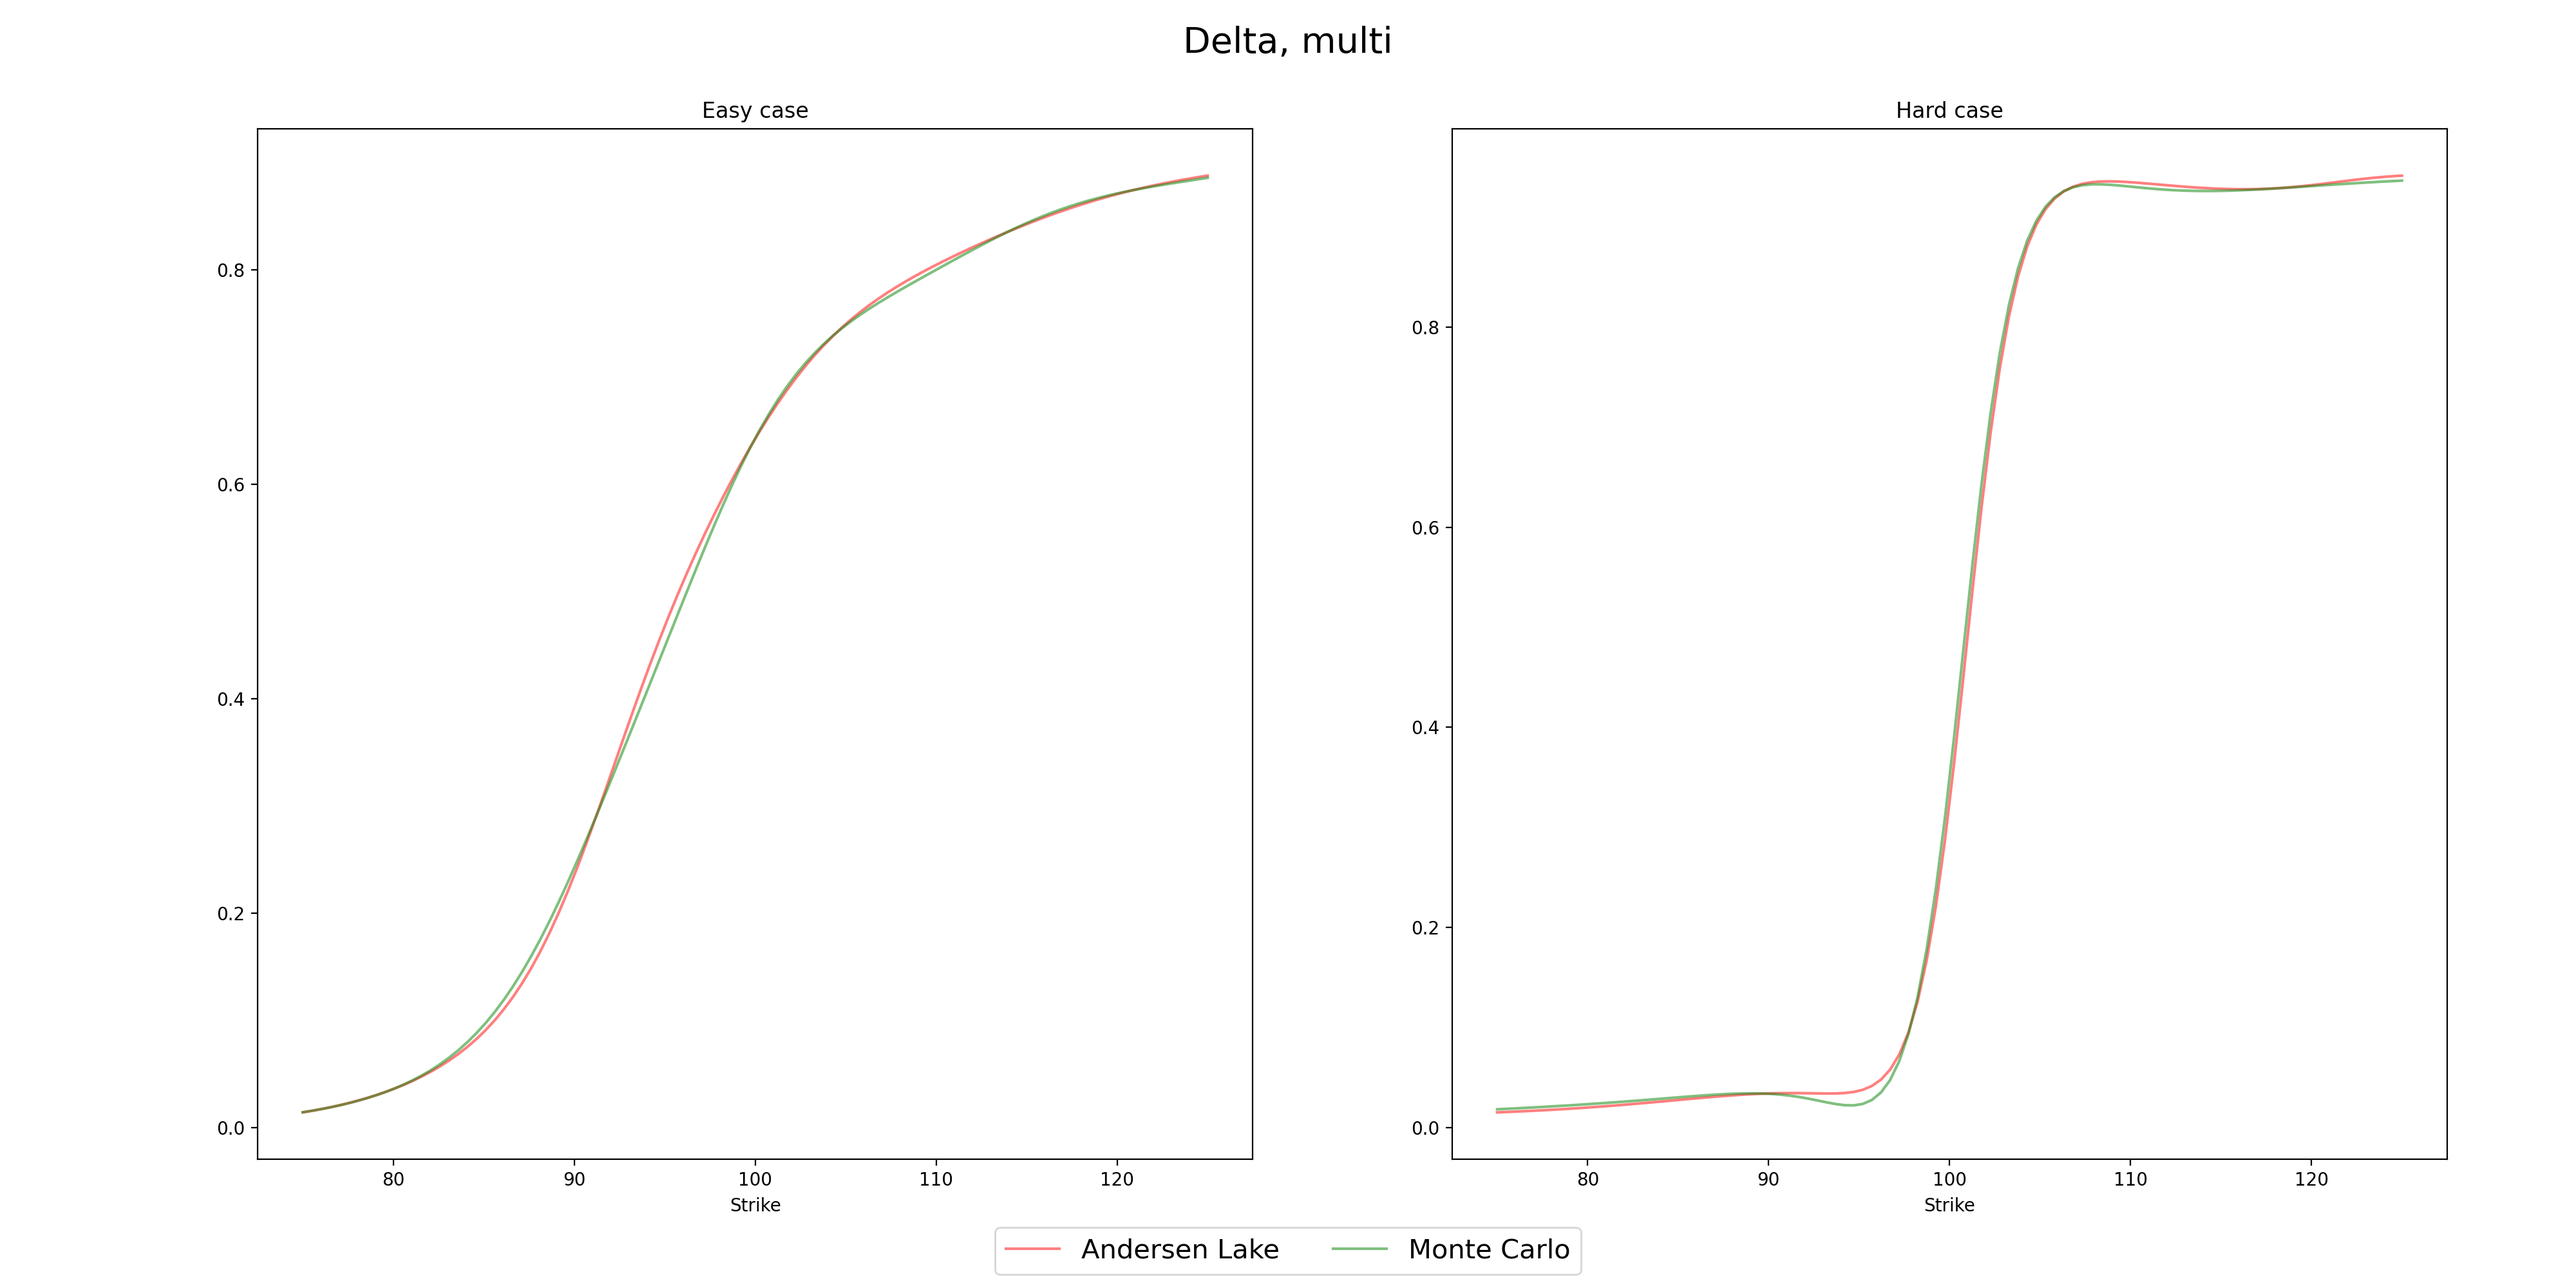
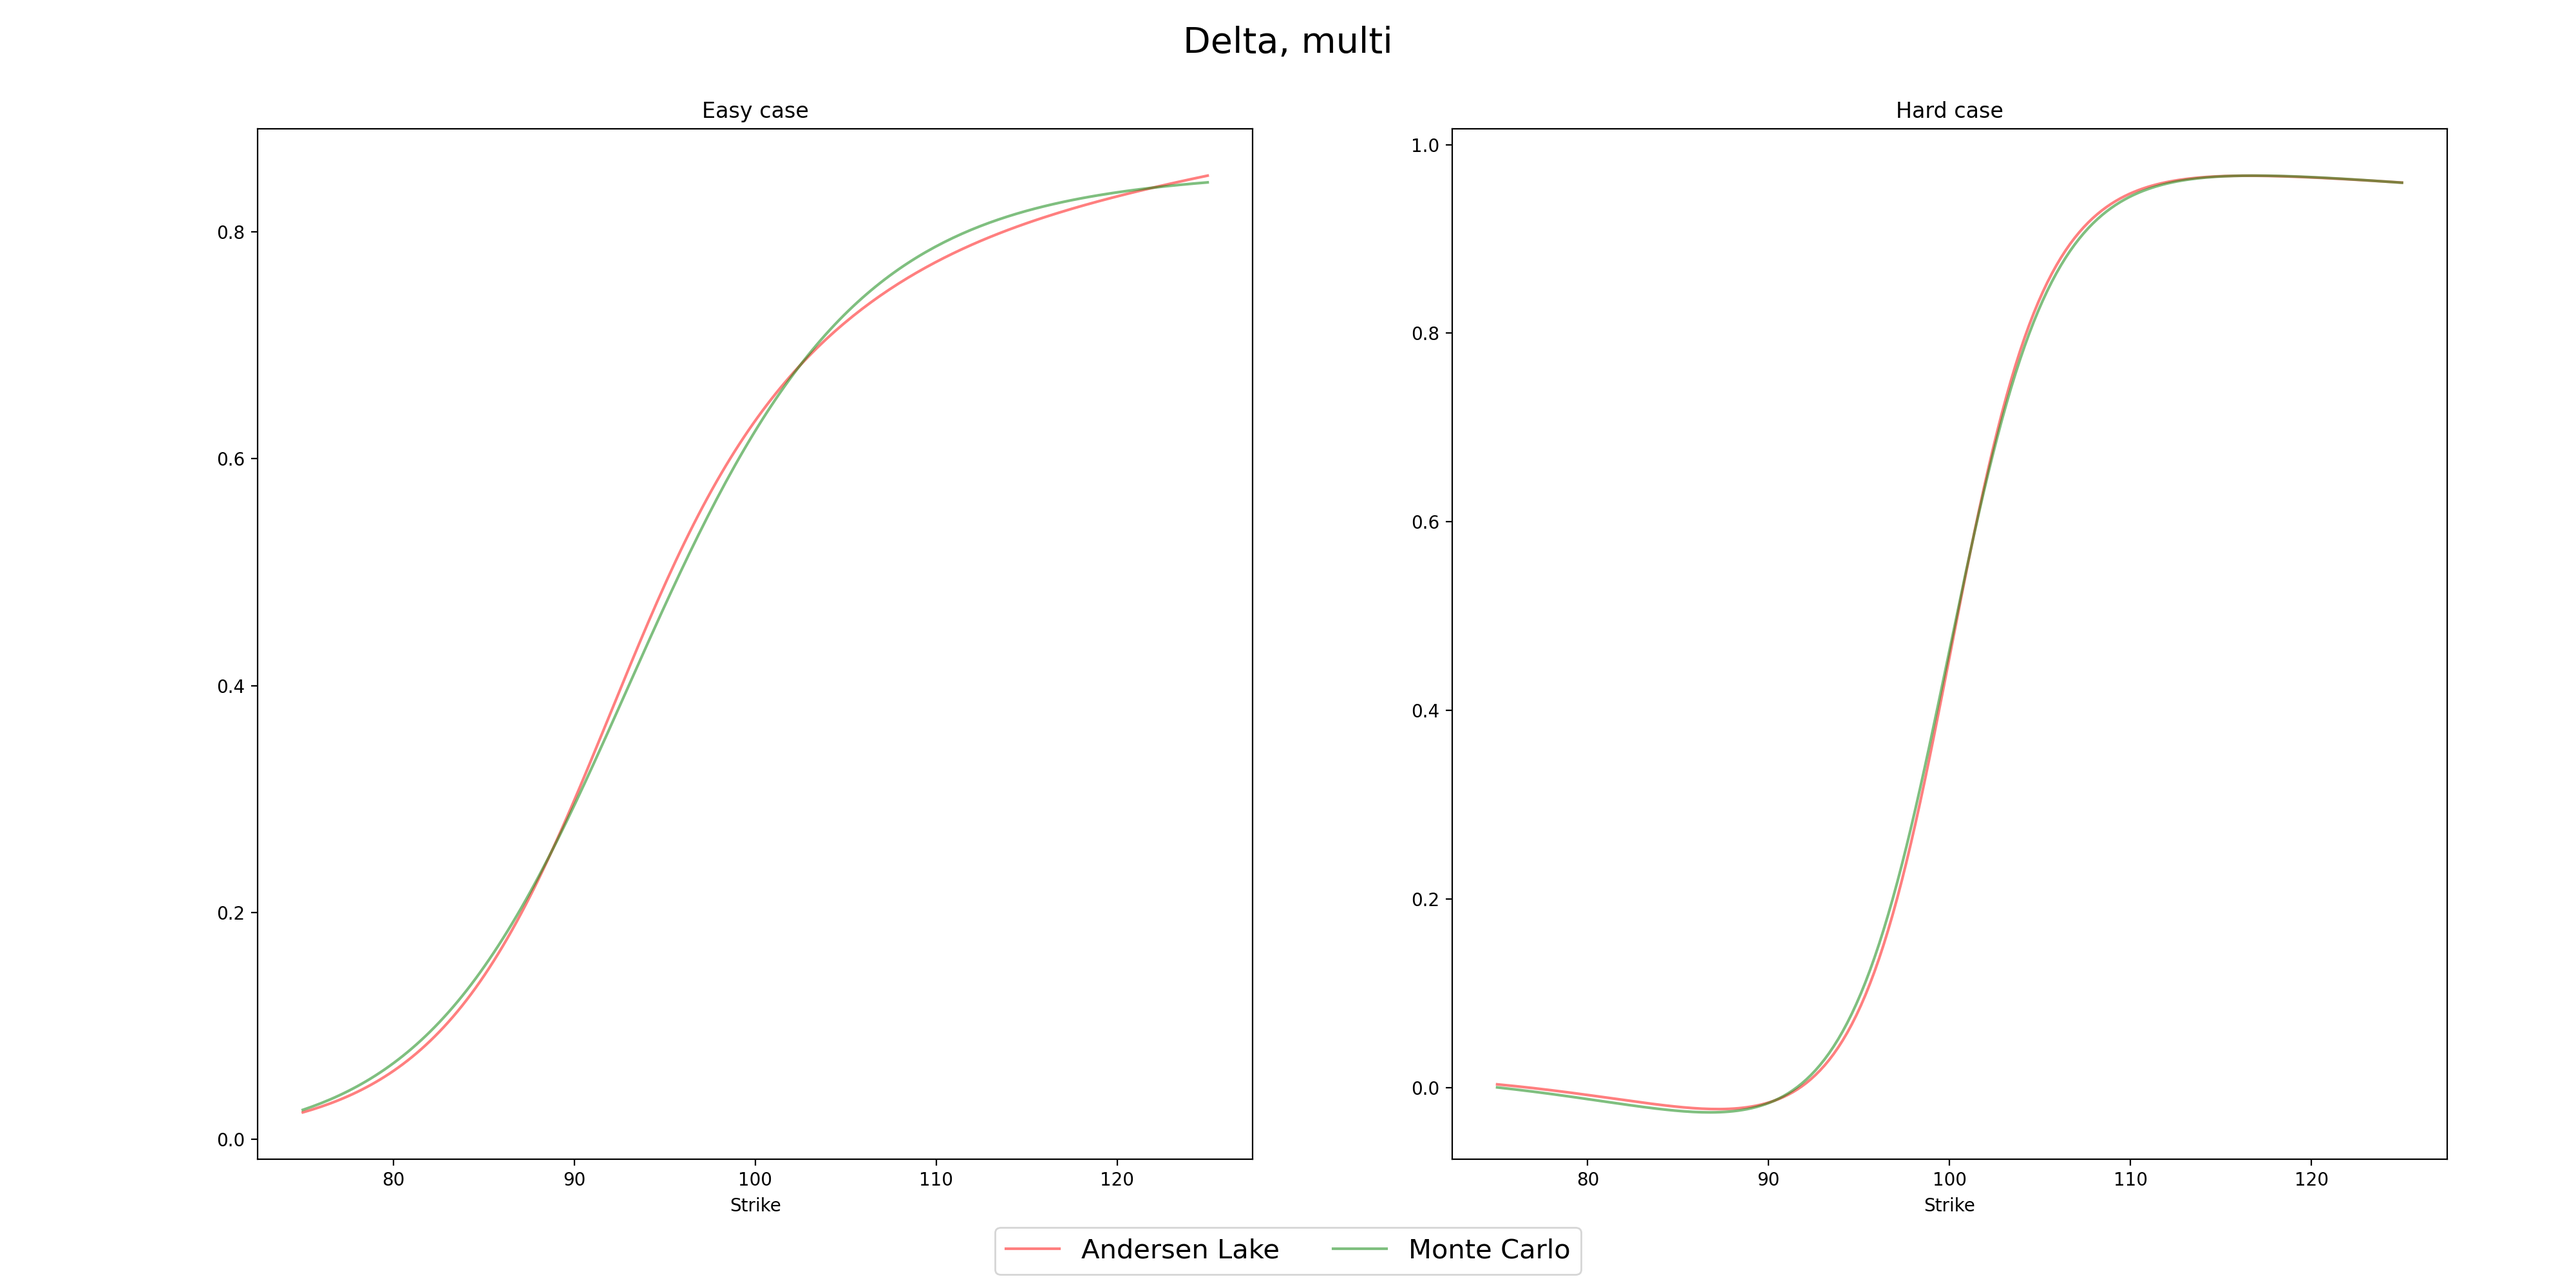
Lets go

diff --git a/Thesis/Heston/Refit.py b/Thesis/Heston/Refit.py
@@ -1,0 +1,132 @@
+import numpy as np
+import tensorflow as tf 
+from keras.optimizers import Adam
+from keras.callbacks import LearningRateScheduler, EarlyStopping, ModelCheckpoint
+from sklearn.preprocessing import MinMaxScaler, StandardScaler
+from multiprocess import Pool, cpu_count, Process
+from sklearn.model_selection import train_test_split
+from keras.models import load_model
+from itertools import repeat
+from functools import partial
+import os
+import joblib
+import sys
+import glob
+sys.path.append(os.getcwd()) # added for calc server support
+
+import time
+
+def lr_schedule(epoch, rate):
+    lower_lr = 1e-4
+    upper_lr = lower_lr * 100
+    no_epochs = 100
+    peak_epoch = 45
+    if epoch <= peak_epoch:
+        lr = lower_lr + epoch / peak_epoch * (upper_lr - lower_lr)
+    elif peak_epoch < epoch < peak_epoch * 2:
+        lr = upper_lr - (epoch - peak_epoch) / peak_epoch * (upper_lr - lower_lr)
+    else:
+        lr = lower_lr * (1 - (epoch - 2 * peak_epoch) / (no_epochs - 2 * peak_epoch)) * (1 - 1 / 10)
+
+    return lr
+
+def refit_model(model_string : str, data : list):
+    model = load_model(model_string)
+    ending = model_string[-4:-3]
+
+    X_train = data[0]
+    X_test = data[1]
+    Y_train = data[2]
+    Y_test = data[3]
+
+    norm_feature = joblib.load(model_string[:-5]+"_norm_features_"+ending+".pkl")
+    X_train = norm_feature.fit_transform(X_train)
+    X_test = norm_feature.transform(X_test)
+    try:
+        norm_labels = joblib.load(model_string[:-5]+"_norm_labels_"+ending+".pkl")
+        Y_train = norm_labels.fit_transform(Y_train)
+        Y_test = norm_labels.transform(Y_test)
+    except:
+        pass
+    
+    model_path = model_string[:model_string.rfind("/")]
+    model_path = model_path.replace("Models2", "Models3")
+    model_name = model_string[model_string.rfind("/") + 1:]
+
+    if not os.path.exists(model_path):
+        os.makedirs(model_path)
+
+    model_save = model_string.replace("Models2", "Models3")
+
+    variance_scaler = tf.keras.initializers.VarianceScaling()
+
+    ### Re initialize weights
+    weights = [variance_scaler(shape = [*w.shape]) for w in model.get_weights()]
+
+    model.set_weights(weights)
+
+    adam = Adam()
+
+    model.compile(
+        loss = 'mean_squared_error', #mean squared error
+        optimizer = adam
+        )
+
+    callbacks_list = [
+        LearningRateScheduler(lr_schedule, verbose = 0),
+        ModelCheckpoint(model_save, monitor="val_loss", save_best_only=True)
+    ]
+
+    start_time = time.time()
+    model.fit(X_train, Y_train, epochs=100, batch_size=1024, verbose = 0, callbacks = callbacks_list, validation_split = 0.1, shuffle=True)
+    stop_time = time.time()
+
+    score = model.evaluate(X_test, Y_test, verbose=2)
+
+    if not os.path.exists(model_path+"/HestonModels.txt"):
+        with open(model_path+"/HestonModels.txt", "w") as output_file:
+            pass
+
+    # Appending test score to file
+    with open(model_path+"/HestonModels.txt", "a") as output_file:
+        output_file.write("\n")
+        output_file.write(model_name+" has a score of: "+str(score)+", and took a total time of: "+str(stop_time - start_time))
+
+    return 0
+
+"""
+input_pre = np.loadtxt("Data/hestonSobolGridInput2_compare2_200000.csv", delimiter = ",")
+output_pre = np.loadtxt("Data/hestonSobolGridImpVol2_compare2_200000.csv", delimiter = ",")
+
+sobol_filter = np.all(output_pre != 0, axis = 1)
+sobol_input = input_pre[sobol_filter, :]
+sobol_output = output_pre[sobol_filter, :]
+
+X_train, X_test, Y_train, Y_test = train_test_split(sobol_input, sobol_output, test_size=0.3, random_state=42)
+
+np.savetxt("Data/Sobol2_X_train.csv", X_train, delimiter = ",")
+np.savetxt("Data/Sobol2_X_test.csv", X_test, delimiter = ",")
+np.savetxt("Data/Sobol2_Y_train.csv", Y_train, delimiter = ",")
+np.savetxt("Data/Sobol2_Y_test.csv", Y_test, delimiter = ",")
+"""
+
+X_train = np.loadtxt("Data/Sobol2_X_train.csv", delimiter = ",")
+X_test = np.loadtxt("Data/Sobol2_X_test.csv", delimiter = ",")
+Y_train = np.loadtxt("Data/Sobol2_Y_train.csv", delimiter = ",")
+Y_test = np.loadtxt("Data/Sobol2_Y_test.csv", delimiter = ",")
+
+data_set = [X_train, X_test, Y_train, Y_test]
+
+price_imp_models = glob.glob("Models2/price_vs_imp/*.h5")
+standard_normal_models = glob.glob("Models2/stardard_vs_normal/*.h5")
+standard_normal_tanh_models = glob.glob("Models2/stardard_vs_normal_tanh/*.h5")
+standard_normal_mix_models = glob.glob("Models2/stardard_vs_normal_mix/*.h5")
+
+model_list = price_imp_models + standard_normal_models + standard_normal_tanh_models + standard_normal_mix_models
+
+cpu_cores = min(cpu_count(), len(model_list))
+# parallel
+pool = Pool(cpu_cores)
+res_models = pool.starmap(refit_model, zip(model_list, repeat(data_set)))
+pool.close()
+print(res_models)

diff --git a/Thesis/Heston/DataGeneration.py b/Thesis/Heston/DataGeneration.py
@@ -6,7 +6,7 @@ import os
 sys.path.append(os.getcwd()) # added for calc server support
 from multiprocess import Pool, cpu_count
 
-from Thesis.Heston import AndersenLake as al, HestonModel as hm
+from Thesis.Heston import AndersenLake as al, HestonModel as hm, Sobol
 from Thesis.misc import VanillaOptions as vo
 
 def calc_imp_vol(input_array : np.array, option_list : np.array) -> (np.array, np.array):
@@ -117,27 +117,8 @@ if __name__ == "__main__":
     imp_vol_output = res[1]
 
     # saving grid datasets
-    np.savetxt("Data/hestonGridInput_wide.csv", model_input, delimiter=",")
-    np.savetxt("Data/hestonGridPrice_wide.csv", price_output, delimiter=",")
-    np.savetxt("Data/hestonGridImpVol_wide.csv", imp_vol_output, delimiter=",")
+    np.savetxt("Data/hestonGridInput2_wide.csv", model_input, delimiter=",")
+    np.savetxt("Data/hestonGridPrice2_wide.csv", price_output, delimiter=",")
+    np.savetxt("Data/hestonGridImpVol2_wide.csv", imp_vol_output, delimiter=",")
 
-    """
-    # Generating single outputs
-    total_comb = np.shape(model_input)[0] * np.shape(option_input)[0]
-    total_cols = np.shape(model_input)[1] + np.shape(option_input)[1]
-    total_options = np.shape(option_input)[0]
-    singleInput = np.empty((total_comb, total_cols))
-    singlePrice_output = np.empty((total_comb, 1))
-    singleImpVol_output = np.empty((total_comb, 1))
-    for i in range(np.shape(model_input)[0]):
-        for j in range(total_options):
-            singleInput[i*total_options+j, 0:np.shape(model_input)[1]] = model_input[i]
-            singleInput[i*total_options+j, (np.shape(model_input)[1]) : total_cols] = option_input[j]
-            singlePrice_output[i*total_options+j] = price_output[i, j]
-            singleImpVol_output[i*total_options+j] = impVol_output[i, j]
-
-    # saving dataset2
-    np.savetxt("Data/hestonSingleInput.csv", singleInput, delimiter=",")
-    np.savetxt("Data/hestonSinglePrice.csv", singlePrice_output, delimiter=",")
-    np.savetxt("Data/hestonSingleImpVol.csv", impVol_output, delimiter=",")
-    """
+    Sobol.generate_sobol_input(len(model_input))

diff --git a/Thesis/Heston/MC_al.py b/Thesis/Heston/MC_al.py
@@ -74,7 +74,7 @@ def generate_multi_network(X, Y):
     callbacks_list = [
         LearningRateScheduler(lr_schedule, verbose = 0),
     ]
-    model = nng.NN_generator(4, 20, np.shape(X)[1], np.shape(Y)[1])
+    model = nng.NN_generator(2, 25, np.shape(X)[1], np.shape(Y)[1])
 
     model.compile(
         loss = 'mean_squared_error', #mean squared error
@@ -95,9 +95,11 @@ def generate_predictions(test_x, model, norm):
         with tf.GradientTape() as tape2:
             tape2.watch(inp_tensor)
             predict = model(inp_tensor)
-        grads = tape2.gradient(predict, inp_tensor) / (norm.data_max_ - norm.data_min_)
+        grads = tape2.gradient(predict, inp_tensor)
 
     grads2 = tape.gradient(grads, inp_tensor) / ((norm.data_max_ - norm.data_min_) ** 2)
+
+    grads = grads / (norm.data_max_ - norm.data_min_)
 
     return predict, grads, grads2
 
@@ -213,9 +215,9 @@ al_multi_model2 = generate_multi_network(X_multi, al_output_multiple_2)
 mc_multi_model2 = generate_multi_network(X_multi, mc_output_multiple_2)
 
 ### Model testing
-spot_plot = np.linspace(start = 75, stop = 125, num = 100)
+spot_plot = np.linspace(start = 75, stop = 125, num = 200)
 spot_plot = np.reshape(spot_plot, (-1, 1))
-eps1_plot = np.reshape(np.repeat(1, len(spot_plot)), (-1, 1))
+eps1_plot = np.reshape(np.repeat(epsilon1, len(spot_plot)), (-1, 1))
 eps2_plot = np.reshape(np.repeat(epsilon2, len(spot_plot)), (-1, 1))
 input_multi_easy = np.concatenate([spot_plot, eps1_plot], axis = 1)
 input_multi_hard = np.concatenate([spot_plot, eps2_plot], axis = 1)

diff --git a/Thesis/Heston/Sobol.py b/Thesis/Heston/Sobol.py
@@ -59,15 +59,15 @@ def generate_sobol_input(no_sobol : int):
     imp_vol_output = res[1]
 
     # saving grid datasets
-    np.savetxt("Data/hestonSobolGridInput2_compare2_"+str(no_sobol)+".csv", gridInput, delimiter=",")
-    np.savetxt("Data/hestonSobolGridPrice2_compare2_"+str(no_sobol)+".csv", price_output, delimiter=",")
-    np.savetxt("Data/hestonSobolGridImpVol2_compare2_"+str(no_sobol)+".csv", imp_vol_output, delimiter=",")
+    np.savetxt("Data/hestonSobolGridInput2_compare_"+str(no_sobol)+".csv", gridInput, delimiter=",")
+    np.savetxt("Data/hestonSobolGridPrice2_compare_"+str(no_sobol)+".csv", price_output, delimiter=",")
+    np.savetxt("Data/hestonSobolGridImpVol2_compare_"+str(no_sobol)+".csv", imp_vol_output, delimiter=",")
 
     return 0
 
 if __name__ == "__main__":
     #generate_sobol_input(100000)
-    generate_sobol_input(200000)
+    #generate_sobol_input(200000)
     #generate_sobol_input(312500)
 
     #generate_sobol_input(279936) # matching number of inputs for the wide model

diff --git a/Thesis/Heston/tester.py b/Thesis/Heston/tester.py
@@ -20,7 +20,6 @@ sobol1 = np.loadtxt("Data/hestonSobolGridInput2_200000.csv", delimiter = ",")
 sobol1_imp = np.loadtxt("Data/hestonSobolGridImpVol2_200000.csv", delimiter = ",")
 
 sobol1_filter = np.all(sobol1_imp != 0, axis = 1)
-sobol1_input = sobol1[sobol1_filter, :]
 sobol1_output = sobol1_imp[sobol1_filter, :]
 
 ### sobol, new
@@ -28,5 +27,10 @@ sobol2 = np.loadtxt("Data/hestonSobolGridInput2_compare_200000.csv", delimiter =
 sobol2_imp = np.loadtxt("Data/hestonSobolGridImpVol2_compare_200000.csv", delimiter = ",")
 
 sobol2_filter = np.all(sobol2_imp != 0, axis = 1)
-sobol2_input = sobol1[sobol2_filter, :]
 sobol2_output = sobol1_imp[sobol2_filter, :]
+
+
+sobol3_imp = np.loadtxt("Data/hestonSobolGridImpVol2_compare2_200000.csv", delimiter=",")
+
+sobol3_filter = np.all(sobol3_imp != 0, axis = 1)
+sobol3_output = sobol3_imp[sobol3_filter, :]

diff --git a/Thesis/Heston/ModelGenerator.py b/Thesis/Heston/ModelGenerator.py
@@ -25,8 +25,8 @@ sobol_input = np.loadtxt("Data/hestonSobolGridInput2_279936.csv", delimiter = ",
 sobol_imp = np.loadtxt("Data/hestonSobolGridImpVol2_279936.csv", delimiter = ",")
 
 ### Sobol, 200.000
-model_sobol2_input_200000 = np.loadtxt("Data/hestonSobolGridInput2_200000.csv", delimiter = ",")
-sobol2_imp_vol_200000 = np.loadtxt("Data/hestonSobolGridImpVol2_200000.csv", delimiter = ",")
+model_sobol2_input_200000 = np.loadtxt("Data/hestonSobolGridInput2_compare2_200000.csv", delimiter = ",")
+sobol2_imp_vol_200000 = np.loadtxt("Data/hestonSobolGridImpVol2_compare2_200000.csv", delimiter = ",")
 
 # Grid filtering, rows with 0 in
 wide_imp_filter = np.all(wide_imp != 0, axis = 1)
